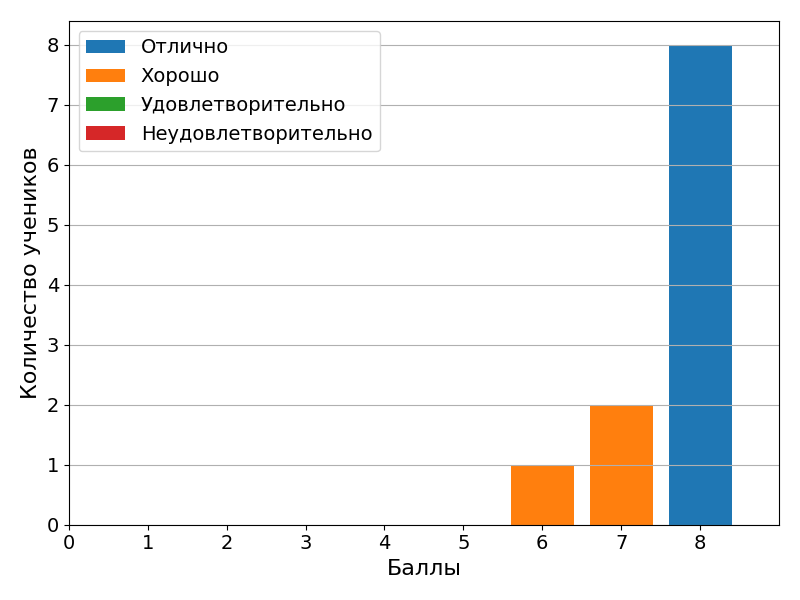
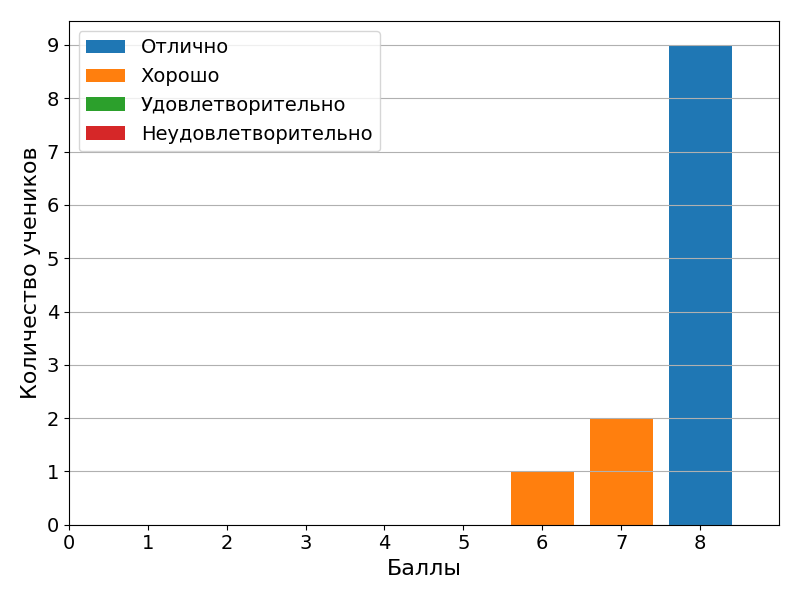
quiz results updated

diff --git a/playgroud/rand.c b/playgroud/rand.c
@@ -1,0 +1,7 @@
+#include <stdlib.h>
+#include <stdio.h>
+
+int main() {
+    printf("%ld\n", RAND_MAX >> 4);
+    return 0;
+}
